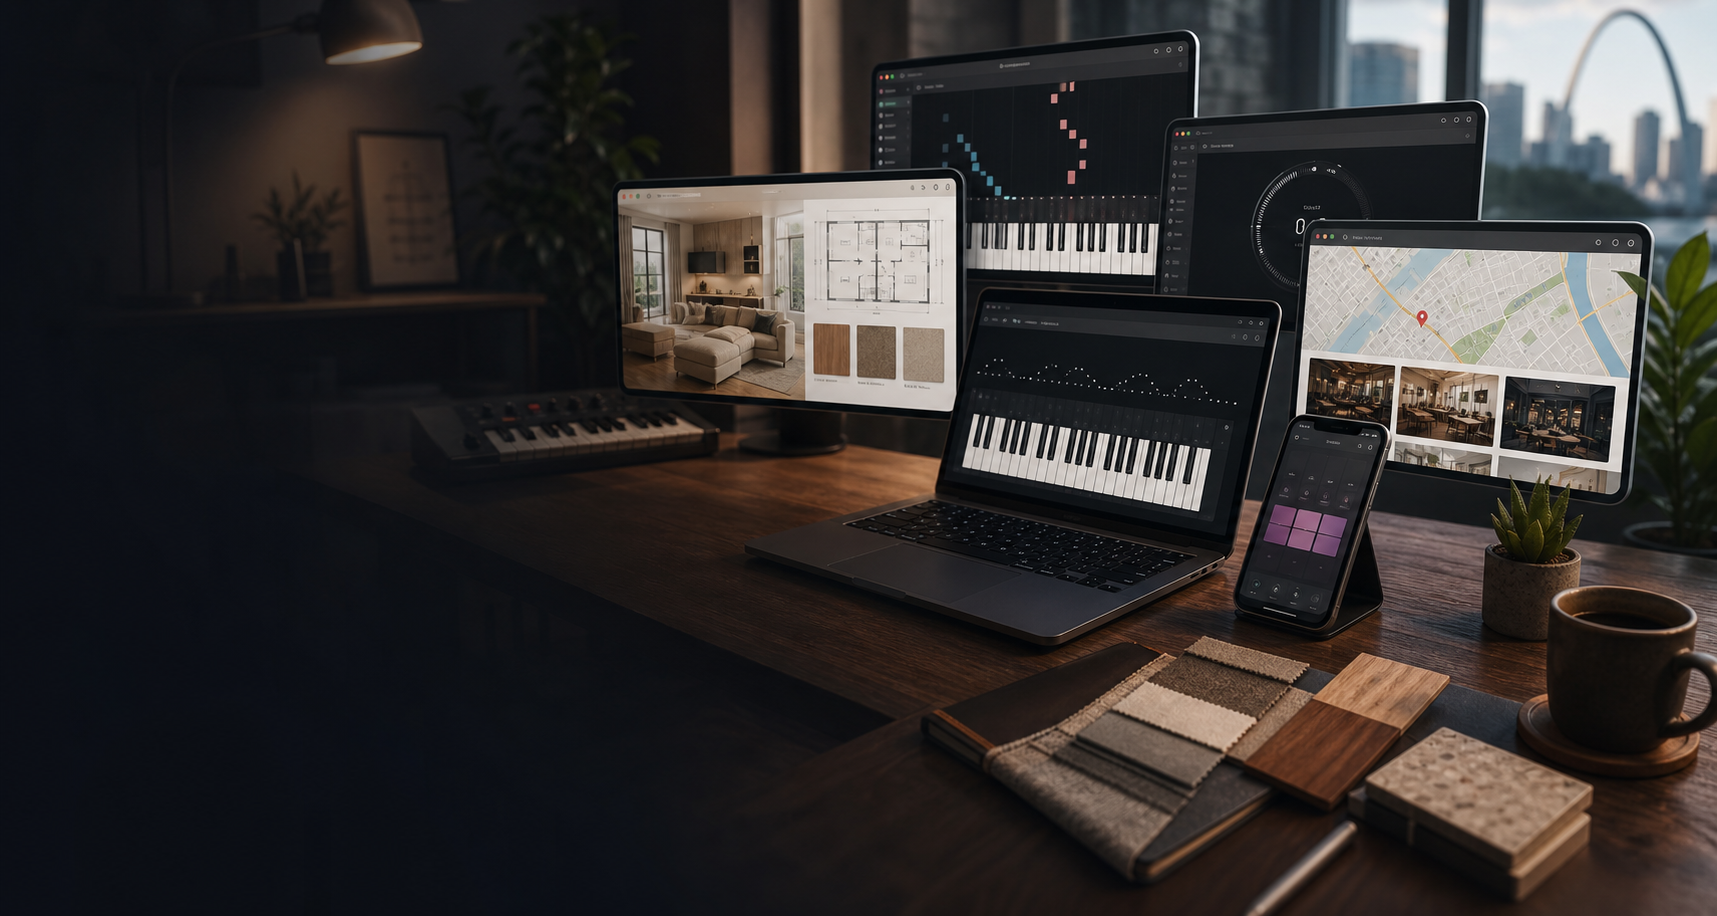
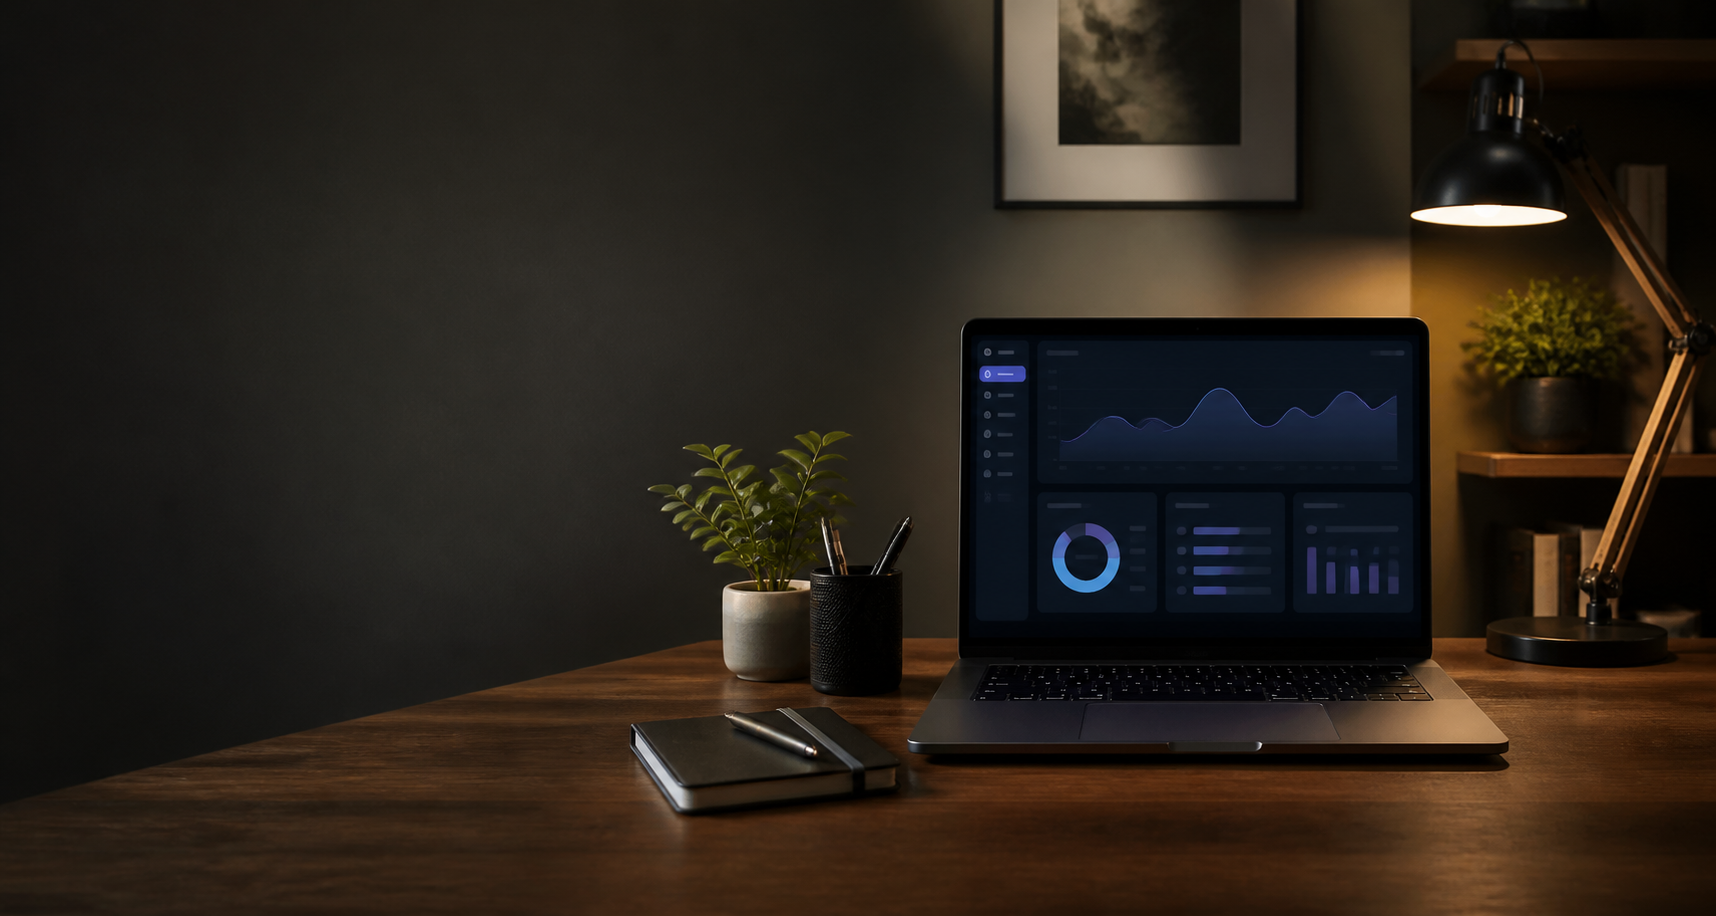
Update site title and hero image

diff --git a/index.html b/index.html
@@ -4,7 +4,7 @@
     <meta charset="utf-8" />
     <meta name="viewport" content="width=device-width, initial-scale=1, viewport-fit=cover" />
     <meta name="theme-color" content="#111827" />
-    <title>My Sites</title>
+    <title>Eric&rsquo;s Web Apps</title>
     <link rel="manifest" href="manifest.webmanifest" />
     <link rel="stylesheet" href="styles.css" />
   </head>
@@ -12,7 +12,7 @@
     <header class="topbar">
       <div>
         <p class="eyebrow">Deployed websites</p>
-        <h1>My Sites</h1>
+        <h1>Eric&rsquo;s Web Apps</h1>
       </div>
       <button class="icon-button" id="themeToggle" type="button" aria-label="Toggle theme" title="Toggle theme">
         <svg aria-hidden="true" viewBox="0 0 24 24">

diff --git a/README.md b/README.md
@@ -1,4 +1,4 @@
-# My Sites
+# Eric's Web Apps
 
 A small mobile-first dashboard for deployed websites created via GitHub-backed projects.
 
